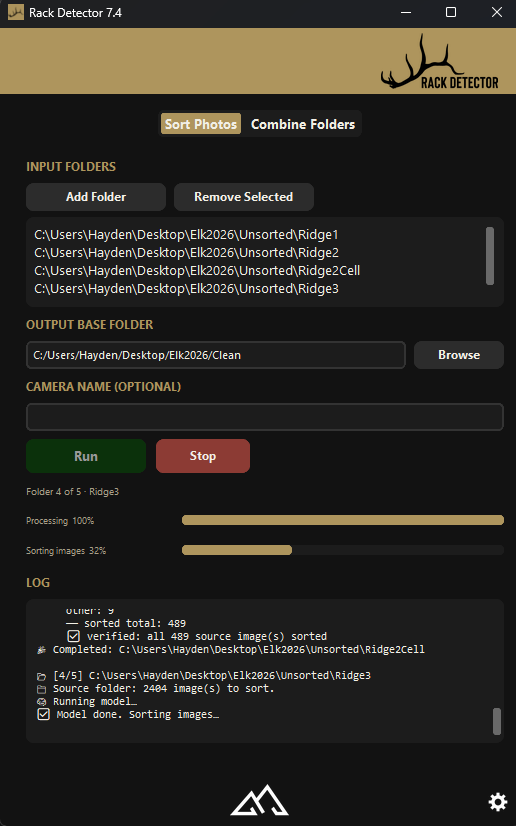
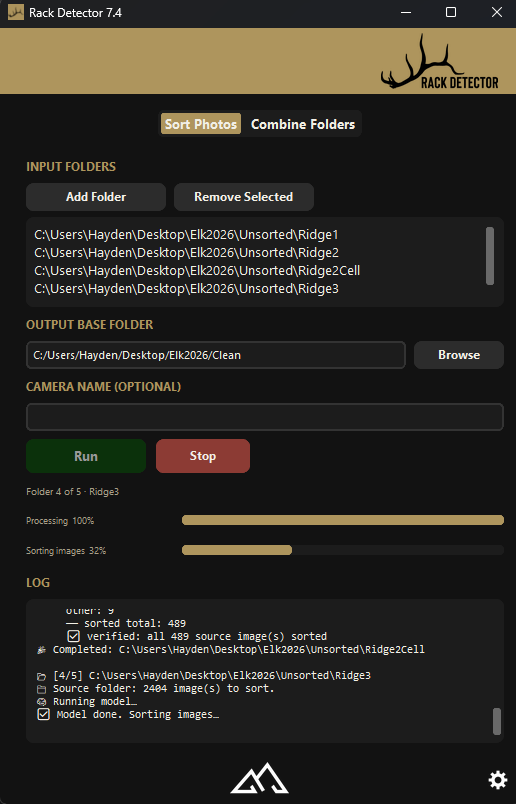
Reword the three cards, and match the two screenshot heights
The cards now open with the problem the reader recognises, thousands of wind frames and
thousands of cattle, before describing what the app does about it.

The two side-by-side screenshots rendered at different heights because their aspect
ratios differ, 0.642 against 0.625, so at equal column widths the right one stood about
3 percent taller. Fixed in the image rather than in CSS: a fixed height would have
fought the responsive layout, object-fit cover would have clipped the title bar or the
footer logo, and contain would have letterboxed inside the border.

Instead, 22 rows were spliced out of the dead space below the log panel in shot 5, at
y=743, where 41 consecutive rows were pixel-identical. Seamless, and it tightens the
capture. The two aspect ratios are now 0.64203 and 0.64179, which is a third of a pixel
apart at a 550px column.

Two small corrections to the supplied copy: "with nothing in in it" lost the doubled
word, and "Species are sorted in their own folder" became "into folders of their own"
to agree in number. The species list ends "and more" rather than "etc.".

Note this drops the line about non-native species being filtered out, which the old
third card carried. Say the word if it should come back.

diff --git a/rack-detector.html b/rack-detector.html
@@ -85,17 +85,17 @@
       <div class="service-card">
         <div class="svc-num">01 // BLANKS</div>
         <h3>Throws out the empty frames</h3>
-        <p>Wind, rain and passing shadows trigger most of a card. Every frame with nothing in it goes straight to its own <strong>blank</strong> folder, so the photos you open are the ones with an animal in them.</p>
+        <p>Wind, branches, and faulty cameras can lead to thousands and thousands of blank images that take forever to sort through. Every frame with nothing in it goes straight to its own <strong>blank</strong> folder, so you can ignore them or quickly look through them in bulk.</p>
       </div>
       <div class="service-card">
         <div class="svc-num">02 // LIVESTOCK</div>
         <h3>Separates the cattle</h3>
-        <p>Cows, sheep, goats and horses land in their own <strong>livestock</strong> folder instead of being mixed in with the game. On grazing ground that is the difference between a usable set of photos and an afternoon of scrolling.</p>
+        <p>Do your cameras sometimes take thousands of images of cattle? With Rack Detector, cattle, sheep, goats and horses land in their own <strong>livestock</strong> folder. Save yourself an afternoon of scrolling through moo cow pictures.</p>
       </div>
       <div class="service-card">
         <div class="svc-num">03 // SPECIES</div>
         <h3>Sorts the rest by animal</h3>
-        <p>What is left is filed per species: elk, mule deer, whitetail, bird, bear, mountain lion, human. Anything that does not belong in North America is filtered out on the way.</p>
+        <p>Species are sorted into folders of their own: elk, mule deer, whitetail, birds, bears, mountain lion, human and more. You can now easily find the animals you're looking for.</p>
       </div>
     </div>
     <div class="rd-shots">
